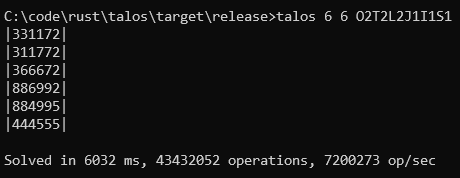
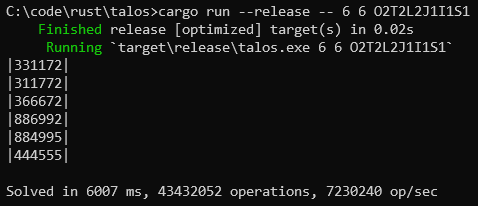
updated readme

Changed region(s): [[0.0, 0.0281, 1.0, 0.7865], [0.0, 0.8708, 0.9435, 0.9551]]

diff --git a/README.md b/README.md
@@ -7,7 +7,7 @@ In example for this game puzzle:
 
 ![screenshot](img/game.jpg)
 
-Use this command line arguments: `talos 6 6 O2T2L2J1I1S1`
+Use this command line arguments: `6 6 O2T2L2J1I1S1`
 
 In result each tetromino is shown with its own digit:
 
